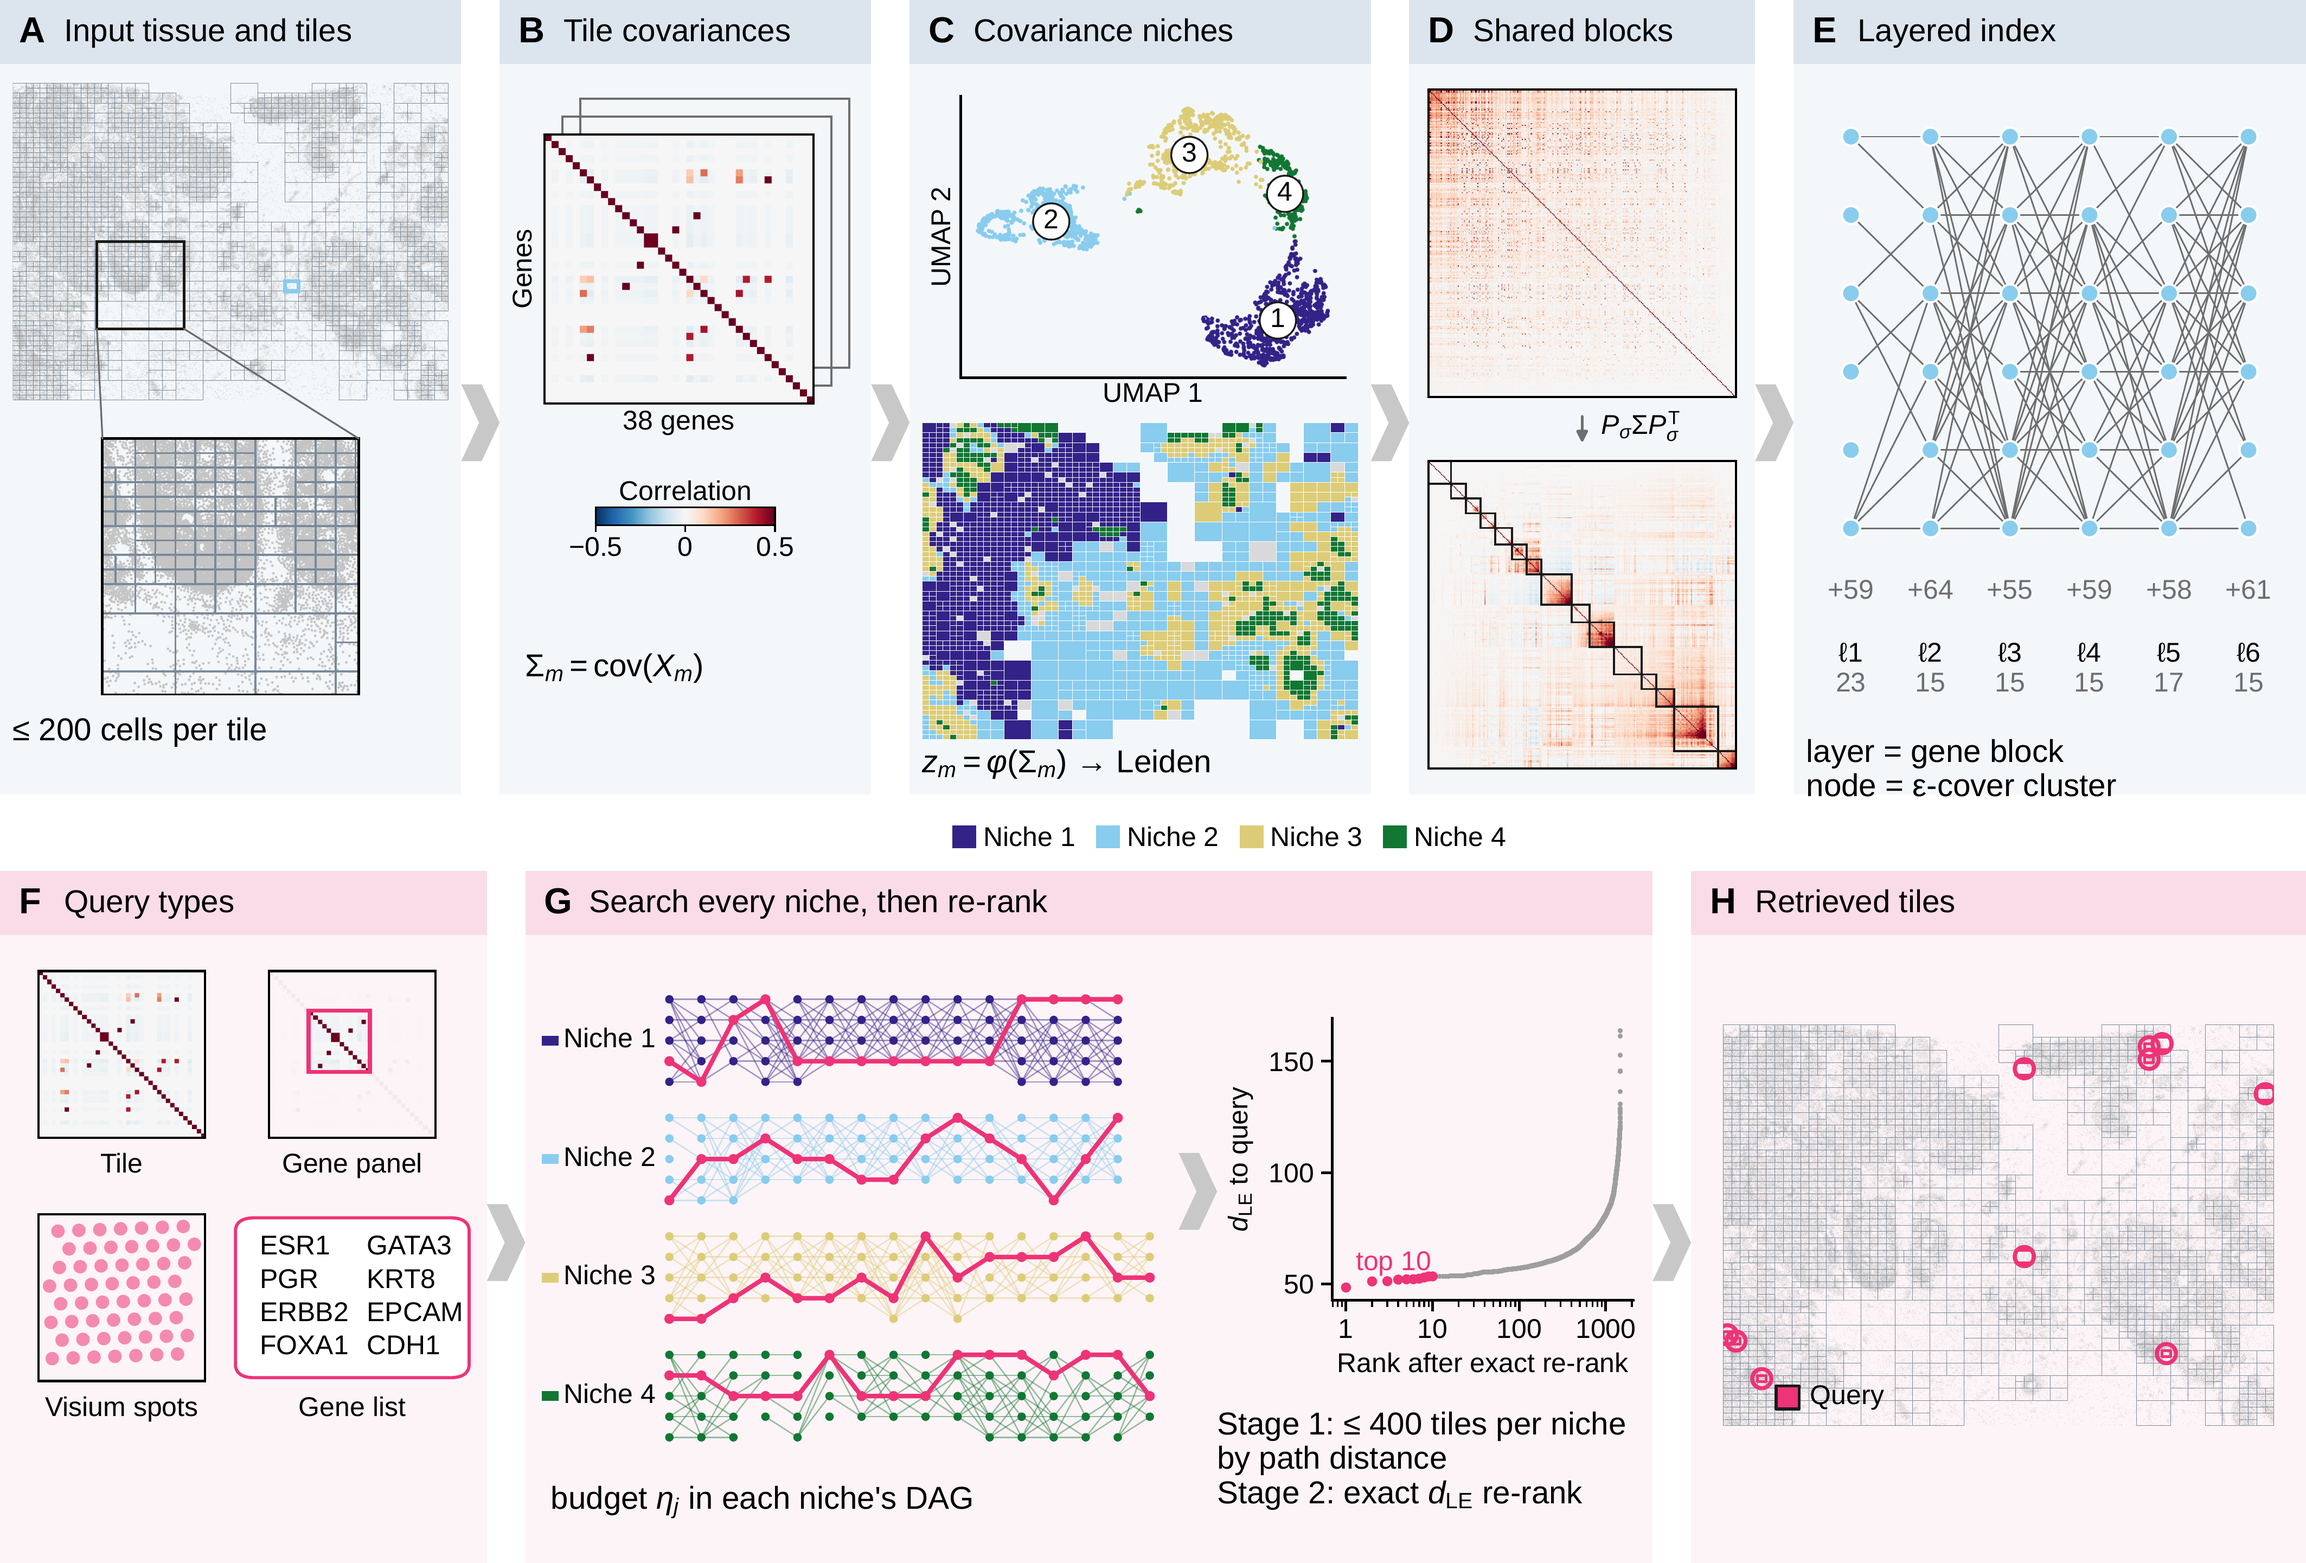
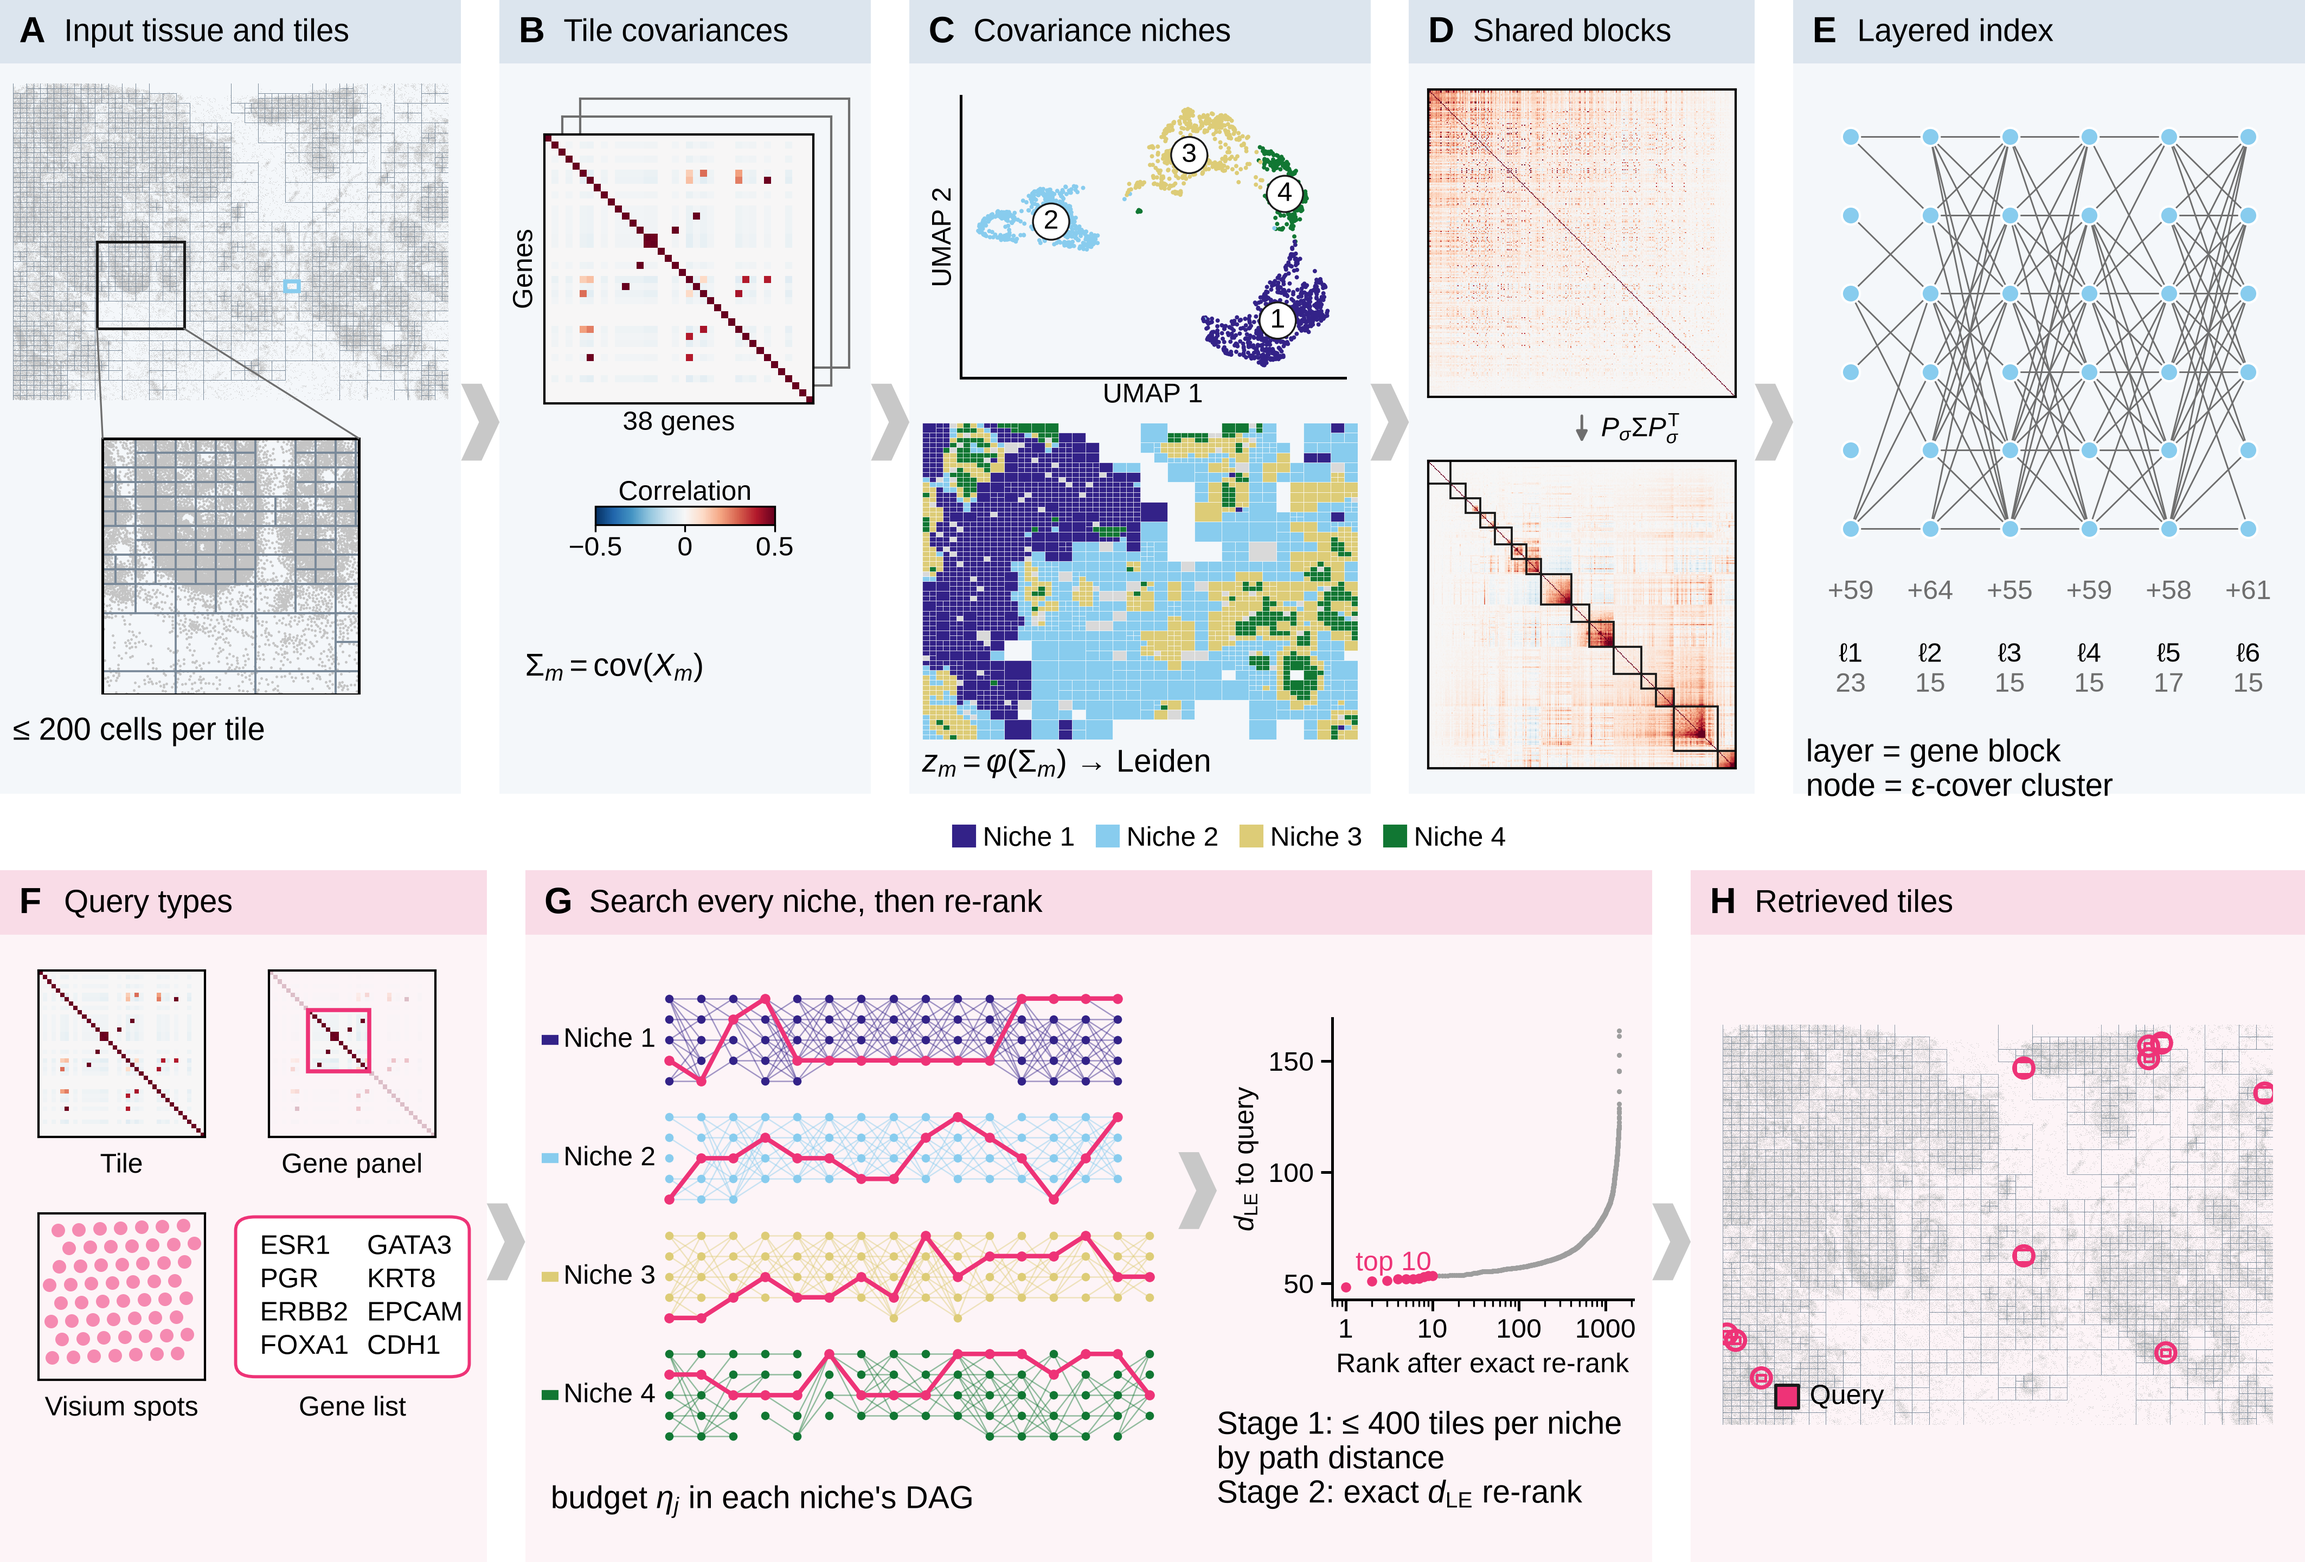
added pngs

diff --git a/scripts/fig1_subpanels.py b/scripts/fig1_subpanels.py
@@ -578,8 +578,10 @@ def panel_h(d, q, W=43.0):
 
 def assemble():
     """Fig. 1 itself: the canvas (boxes, headers, chevrons, in-box text) drawn as a PDF, then every part
-    PDF overlaid at its brief coordinates, so the result stays vector with real text."""
+    PDF overlaid at its brief coordinates, so the result stays vector with real text. The PNG is built the
+    same way from the canvas PNG and the part PNGs (never rasterised from the PDF)."""
     from matplotlib.patches import Polygon
+    from PIL import Image
     from pypdf import PdfReader, PdfWriter, Transformation
 
     W, H = CANVAS
@@ -606,6 +608,7 @@ def assemble():
                 arrowprops=dict(arrowstyle="-|>", color=fs.MUTED, lw=0.6, mutation_scale=5))
     canvas_pdf = os.path.join(tempfile.mkdtemp(), "_canvas.pdf")
     fig.savefig(canvas_pdf)
+    canvas = fs.render_png(fig)
     plt.close(fig)
 
     pt = 72 / 25.4
@@ -617,13 +620,17 @@ def assemble():
         if box and (x + w > box[3] + 0.01 or y + h > box[5] + 0.01):
             raise ValueError(f"{name} leaves box {box[0]}")
         page.merge_transformed_page(part_page, Transformation().translate(x * pt, (H - y - h) * pt))
+        part_png = Image.open(fs.png_path(OUT / f"{name}.pdf")).convert("RGBA")
+        px = fs.PNG_DPI / 25.4
+        canvas.alpha_composite(part_png, (round(x * px), round(y * px)))
     out = PdfWriter()
     out.add_page(page)
     target = fs.PDF_DIR / "fig1_overview.pdf"
     with open(target, "wb") as fh:
         out.write(fh)
     os.remove(canvas_pdf)
-    png = fs.pdf_to_png(target)
+    png = fs.png_path(target)
+    canvas.convert("RGB").save(png, dpi=(fs.PNG_DPI, fs.PNG_DPI))
     print(f"saved {target.relative_to(fs.PROJECT_ROOT)} + {png.relative_to(fs.PROJECT_ROOT)}")
 
 

diff --git a/scripts/figstyle.py b/scripts/figstyle.py
@@ -373,13 +373,14 @@ def png_path(pdf):
     return png
 
 
-def pdf_to_png(pdf):
-    """Rasterise a one-page PDF (e.g. one assembled with pypdf) to its PNG twin via pdftoppm."""
-    import subprocess
-    png = png_path(pdf)
-    subprocess.run(["pdftoppm", "-png", "-r", str(PNG_DPI), "-singlefile", str(pdf), str(png.with_suffix(""))],
-                   check=True)
-    return png
+def render_png(fig):
+    """The figure drawn straight to PNG at PNG_DPI, as an RGBA PIL image (for compositing)."""
+    import io
+    from PIL import Image
+    buf = io.BytesIO()
+    fig.savefig(buf, format="png", dpi=PNG_DPI)
+    buf.seek(0)
+    return Image.open(buf).convert("RGBA")
 
 
 def _save_panels(fig, name):
